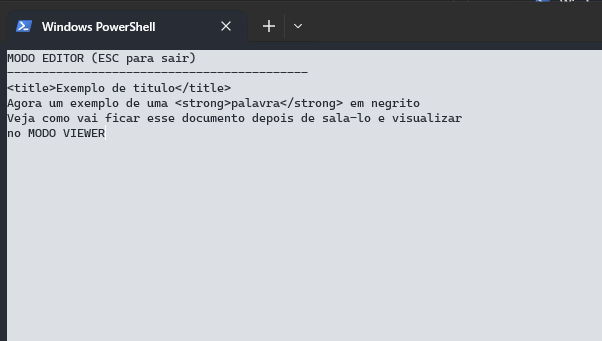
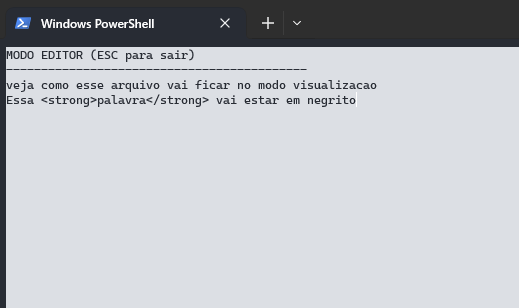
feat: modo viewer + readme: new asset

diff --git a/Viewer.cs b/Viewer.cs
@@ -1,0 +1,45 @@
+using System.Text.RegularExpressions;
+
+namespace Notepad
+{
+  public class Viewer
+  {
+    public void Show(string text)
+    {
+      Console.Clear();
+      Console.BackgroundColor = ConsoleColor.White;
+      Console.ForegroundColor = ConsoleColor.Black;
+      Console.Clear();
+      Console.WriteLine("MODO VISUALIZAÇÃO");
+      Console.WriteLine("----------------------------------------");
+      Replace(text);
+      Console.WriteLine("----------------------------------------");
+      Console.WriteLine("Pressione qualquer tecla para voltar ao menu");
+      Console.ReadKey();
+
+      var menu = new Menu();
+      menu.Show();
+    }
+
+    protected void Replace(string text)
+    {
+      var strong = new Regex(@"<\s*strong[^>]*>(.*?)<\s*/\s*strong>");
+      var words = text.Split(' ');
+      for (var i = 0; i < words.Length; i++)
+      {
+        if (strong.IsMatch(words[i]))
+        {
+          Console.ForegroundColor = ConsoleColor.Blue;
+          Console.Write(words[i].Substring(words[i].IndexOf('>') + 1, ((words[i].LastIndexOf('<') - 1) - words[i].IndexOf('>'))));
+          Console.Write(" ");
+        }
+        else
+        {
+          Console.ForegroundColor = ConsoleColor.Black;
+          Console.Write(words[i]);
+          Console.Write(" ");
+        }
+      }
+    }
+  }
+}

diff --git a/Menu.cs b/Menu.cs
@@ -65,7 +65,7 @@ namespace Notepad
       switch (option)
       {
         case 1: new Editor().Show(); break;
-        case 2: Console.WriteLine("Viewer.Show()"); break;
+        case 2: new Viewer().Show(""); break;
         case 0:
           {
             Console.Clear();

diff --git a/README.md b/README.md
@@ -11,8 +11,7 @@ Este é um projeto de um aplicativo de console simples em C# chamado "Notepad". 
 
 1. Criação de novos arquivos
 2. Abertura de arquivos existentes
-3. Utilização de tags `<title></title>` para marcar o texto como título
-4. Utilização de tags `<strong></strong>` para marcar o texto em negrito
+3. Utilização de tags `<strong></strong>` para marcar o texto em negrito
 
 ## Como Usar
 
